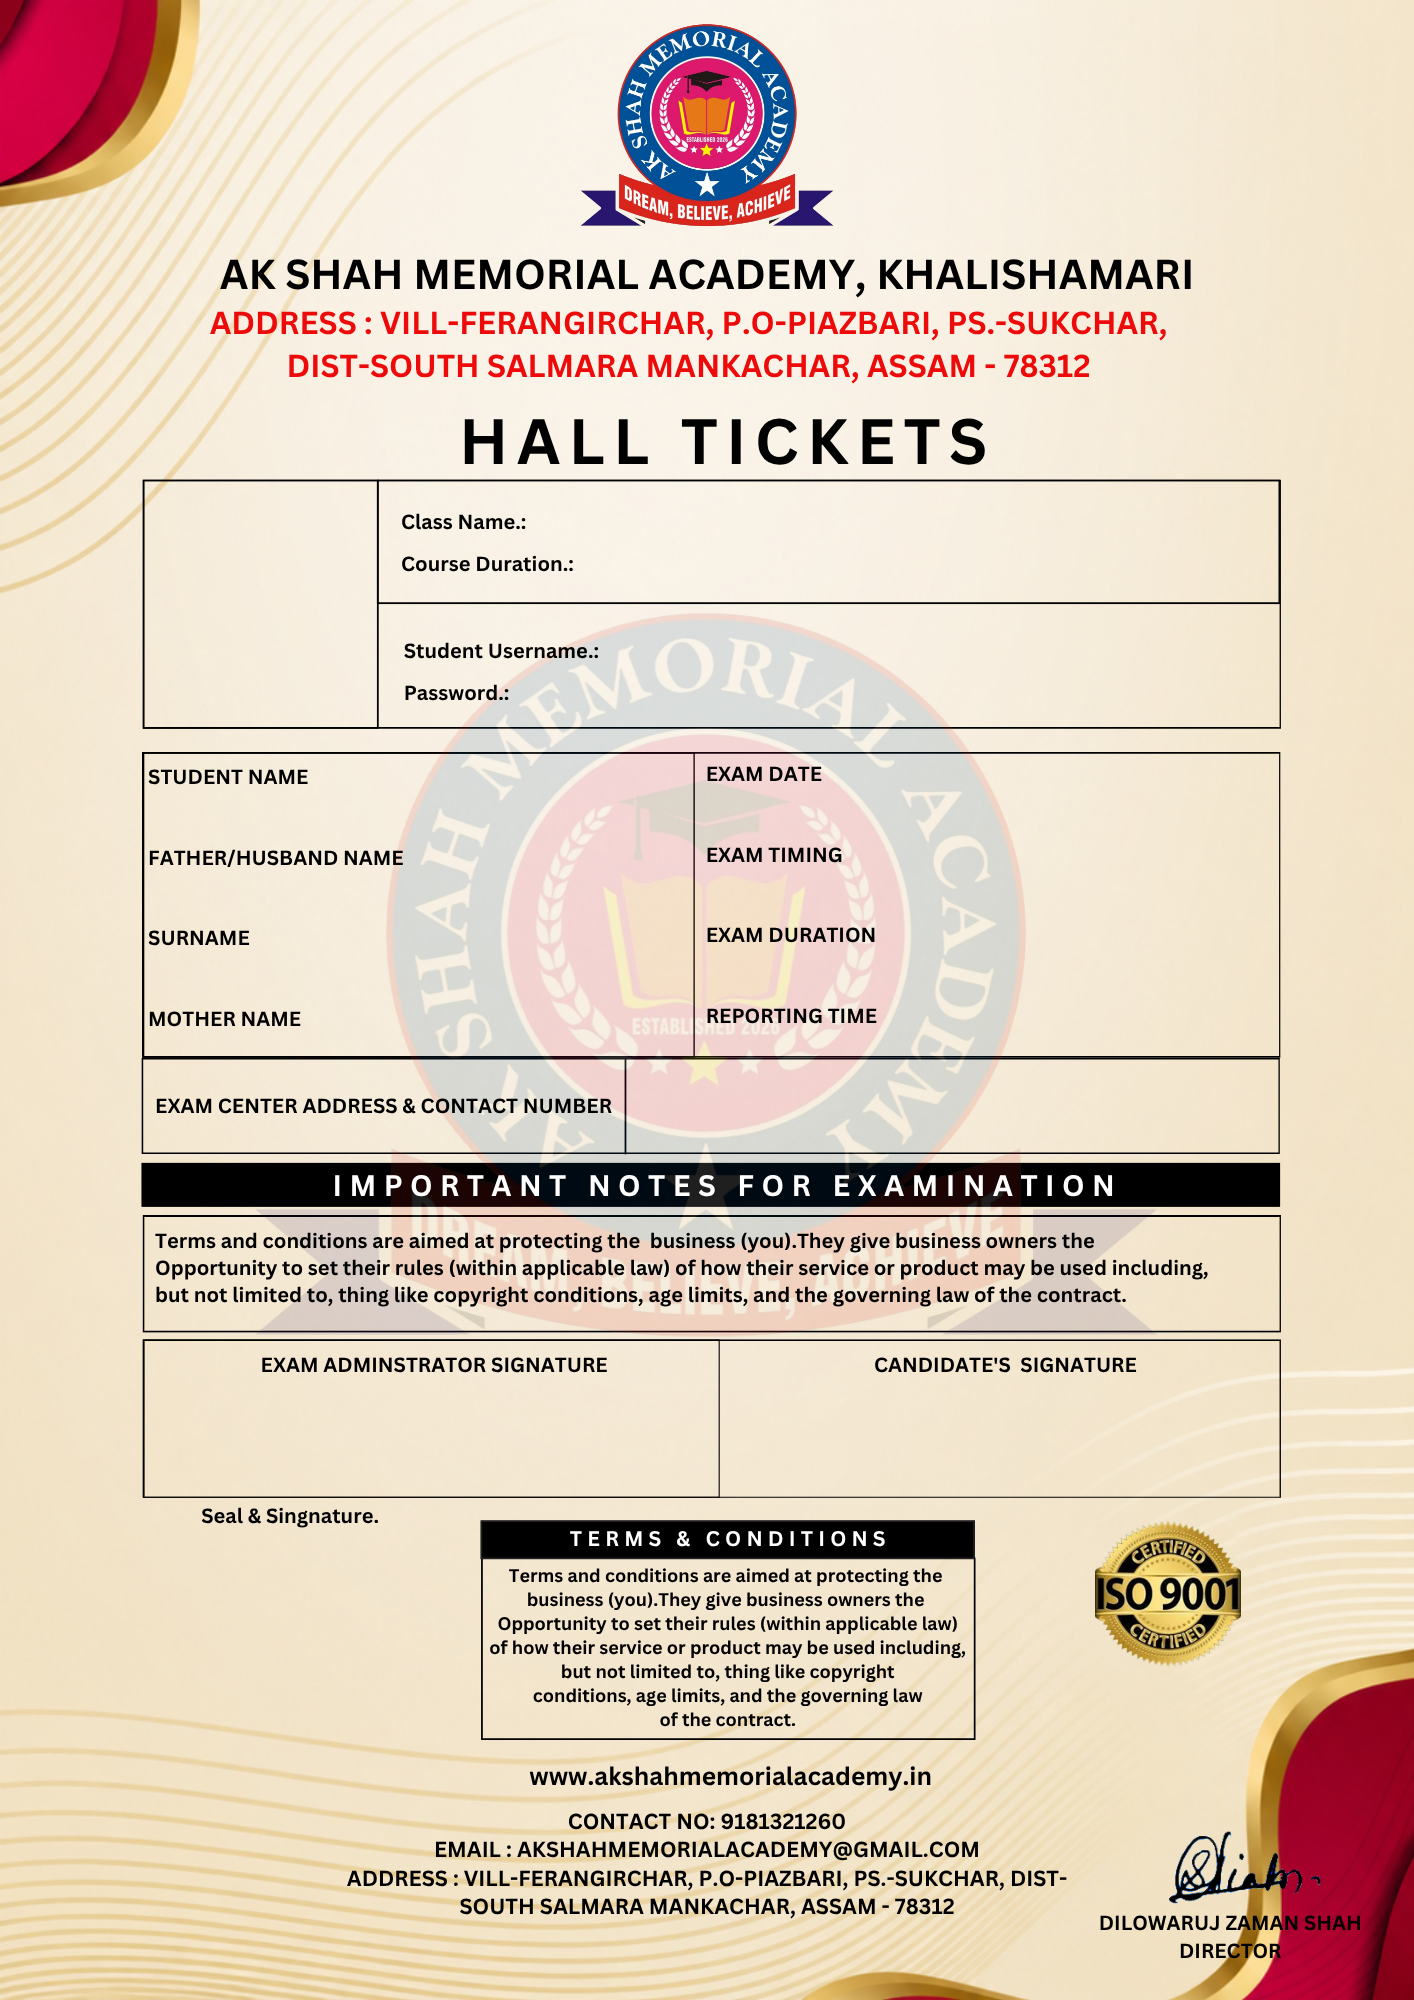
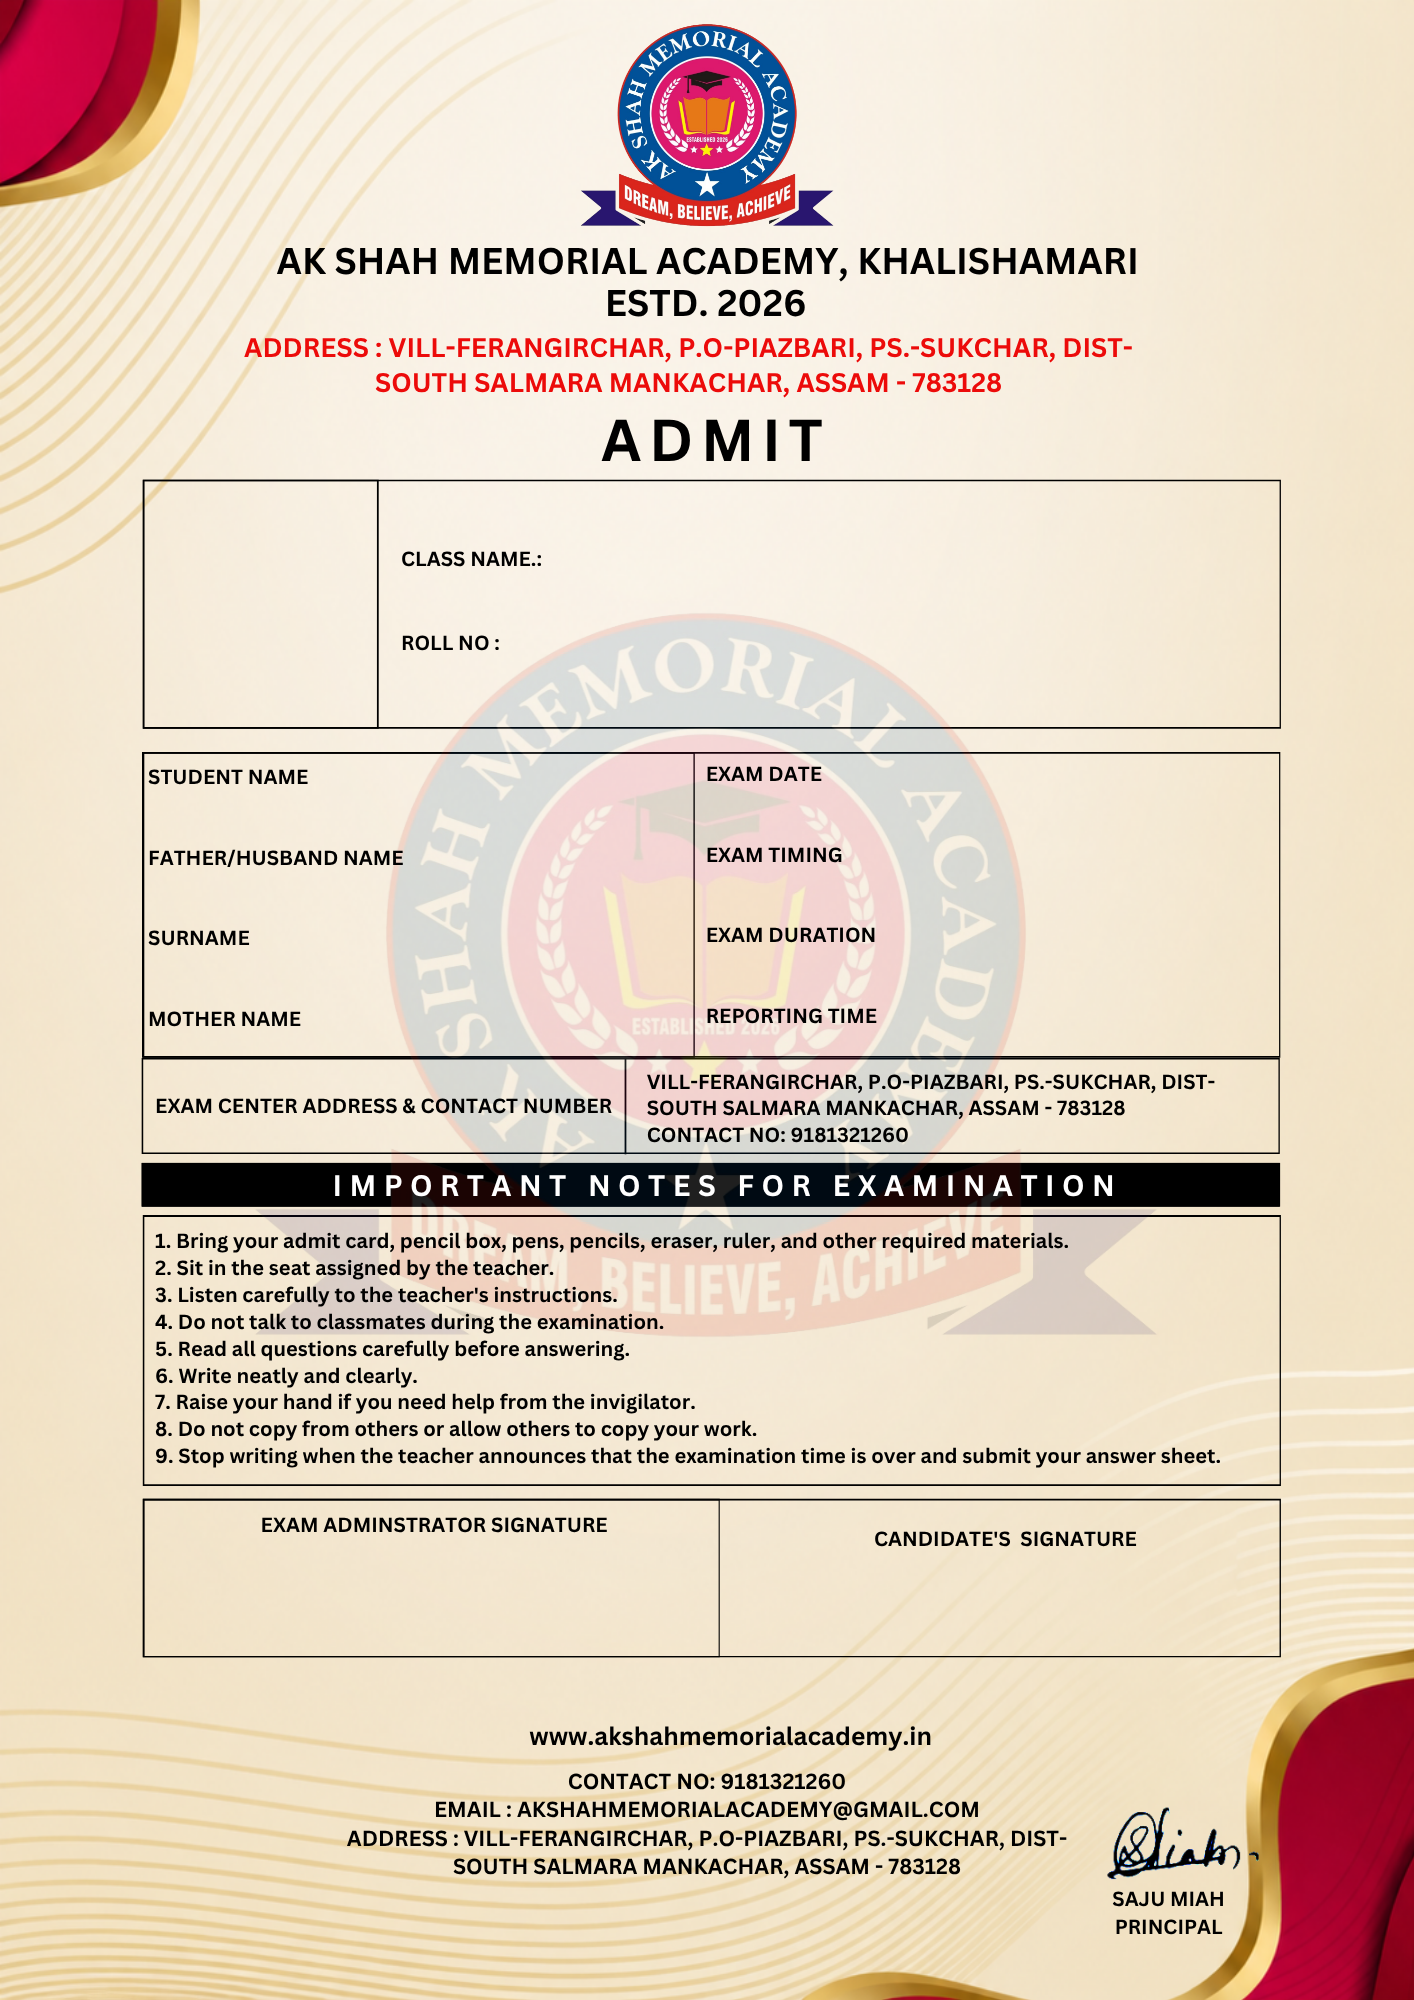
hall ticket update

diff --git a/src/app/login/institute/(protected)/student-exam/hall-ticket/print/page.jsx b/src/app/login/institute/(protected)/student-exam/hall-ticket/print/page.jsx
@@ -192,24 +192,24 @@ export default function PrintHallTicket() {
               )}
 
               {/* COURSE NAME */}
-                          <div className="absolute top-[275px] left-[310px] text-lg">
+                          <div className="absolute top-[293px] left-[320px] text-lg">
   {student.className || student.courseName || ""}
 </div>
 
 
               {/* COURSE DURATION */}
-              <div className="absolute top-[300px] left-[330px]">
+              {/* <div className="absolute top-[300px] left-[330px]">
                 {exam.duration || student.duration || "N/A"}
-              </div>
+              </div> */}
 
               {/* STUDENT NAME */}
-              <div className="absolute top-[415px] left-[190px] text-[13px]">
+              <div className="absolute top-[418px] left-[190px] text-[13px]">
                 {student.studentName}
               </div>
               {/* ROLL NUMBER */}
 
-<div className="absolute top-[365px] right-[120px] text-lg font-semibold">
-    Roll No: {student.rollNumber || ""}
+<div className="absolute top-[340px] left-[300px] text-lg font-semibold">
+     {student.rollNumber || ""}
 </div>
 
               {/* FATHER NAME */}
@@ -219,7 +219,7 @@ export default function PrintHallTicket() {
 
               {/* SURNAME */}
               <div className="absolute top-[504px] left-[160px]">
-                {student.surname}
+                {student.surname} 
               </div>
 
               {/* MOTHER NAME */}
@@ -228,14 +228,14 @@ export default function PrintHallTicket() {
               </div>
 
               {/* USERNAME */}
-              <div className="absolute top-[345px] left-[350px]">
+              {/* <div className="absolute top-[345px] left-[350px]">
                                 {student.studentName}
-              </div>
+              </div> */}
 
               {/* PASSWORD */}
-              <div className="absolute top-[370px] left-[350px]">
+              {/* <div className="absolute top-[370px] left-[350px]">
                 {student.password}
-              </div>
+              </div> */}
 
               {/* EXAM DATE */}
               <div className="absolute top-[415px] left-[470px]">
@@ -258,20 +258,20 @@ export default function PrintHallTicket() {
               </div>
 
               {/* CENTER ADDRESS */}
-              <div className="absolute top-[585px] left-[390px] w-[300px] text-[11px]">
+              {/* <div className="absolute top-[585px] left-[390px] w-[300px] text-[11px]">
                 {franchise?.address || ""}
                 <br />
                 {franchise?.city || ""}, {franchise?.state || ""}
-              </div>
+              </div> */}
 
               {/* STUDENT SIGNATURE */}
               {signatureUrl ? (
                 <img
                   src={signatureUrl}
-                  className="absolute bottom-[280px] left-[490px] w-[140px] h-[60px] object-contain border"
+                  className="absolute bottom-[210px] left-[490px] w-[140px] h-[60px] object-contain border"
                 />
               ) : (
-                <div className="absolute bottom-[300px] left-[490px] text-red-500">
+                <div className="absolute bottom-[200px] left-[500px] text-red-500">
                   No Signature
                 </div>
               )}
@@ -285,14 +285,14 @@ export default function PrintHallTicket() {
               )} */}
 
               {/* EXTRA SIGNATURE */}
-              {/* {franchiseSign && (
-                 <div className="absolute bottom-[120px] right-[70px] w-[120px] h-[60px] overflow-hidden bg-white rounded-full border-4 border-white flex items-center justify-center shadow-md">
+              {franchiseSign && (
+                 <div className="absolute bottom-[190px] left-[160px] w-[200px] h-[60px] overflow-hidden rounded-full border-4 border-white flex items-center justify-center shadow-md">
                 <img
                   src={franchiseSign} className="w-full h-full object-cover "
                   
                 />
               </div>
-              )} */}
+              )}
 
               {/* FRANCHISE OWNER NAME */}
               {/* <div className="absolute bottom-[100px] right-[95px] text-sm font-semibold text-center">
